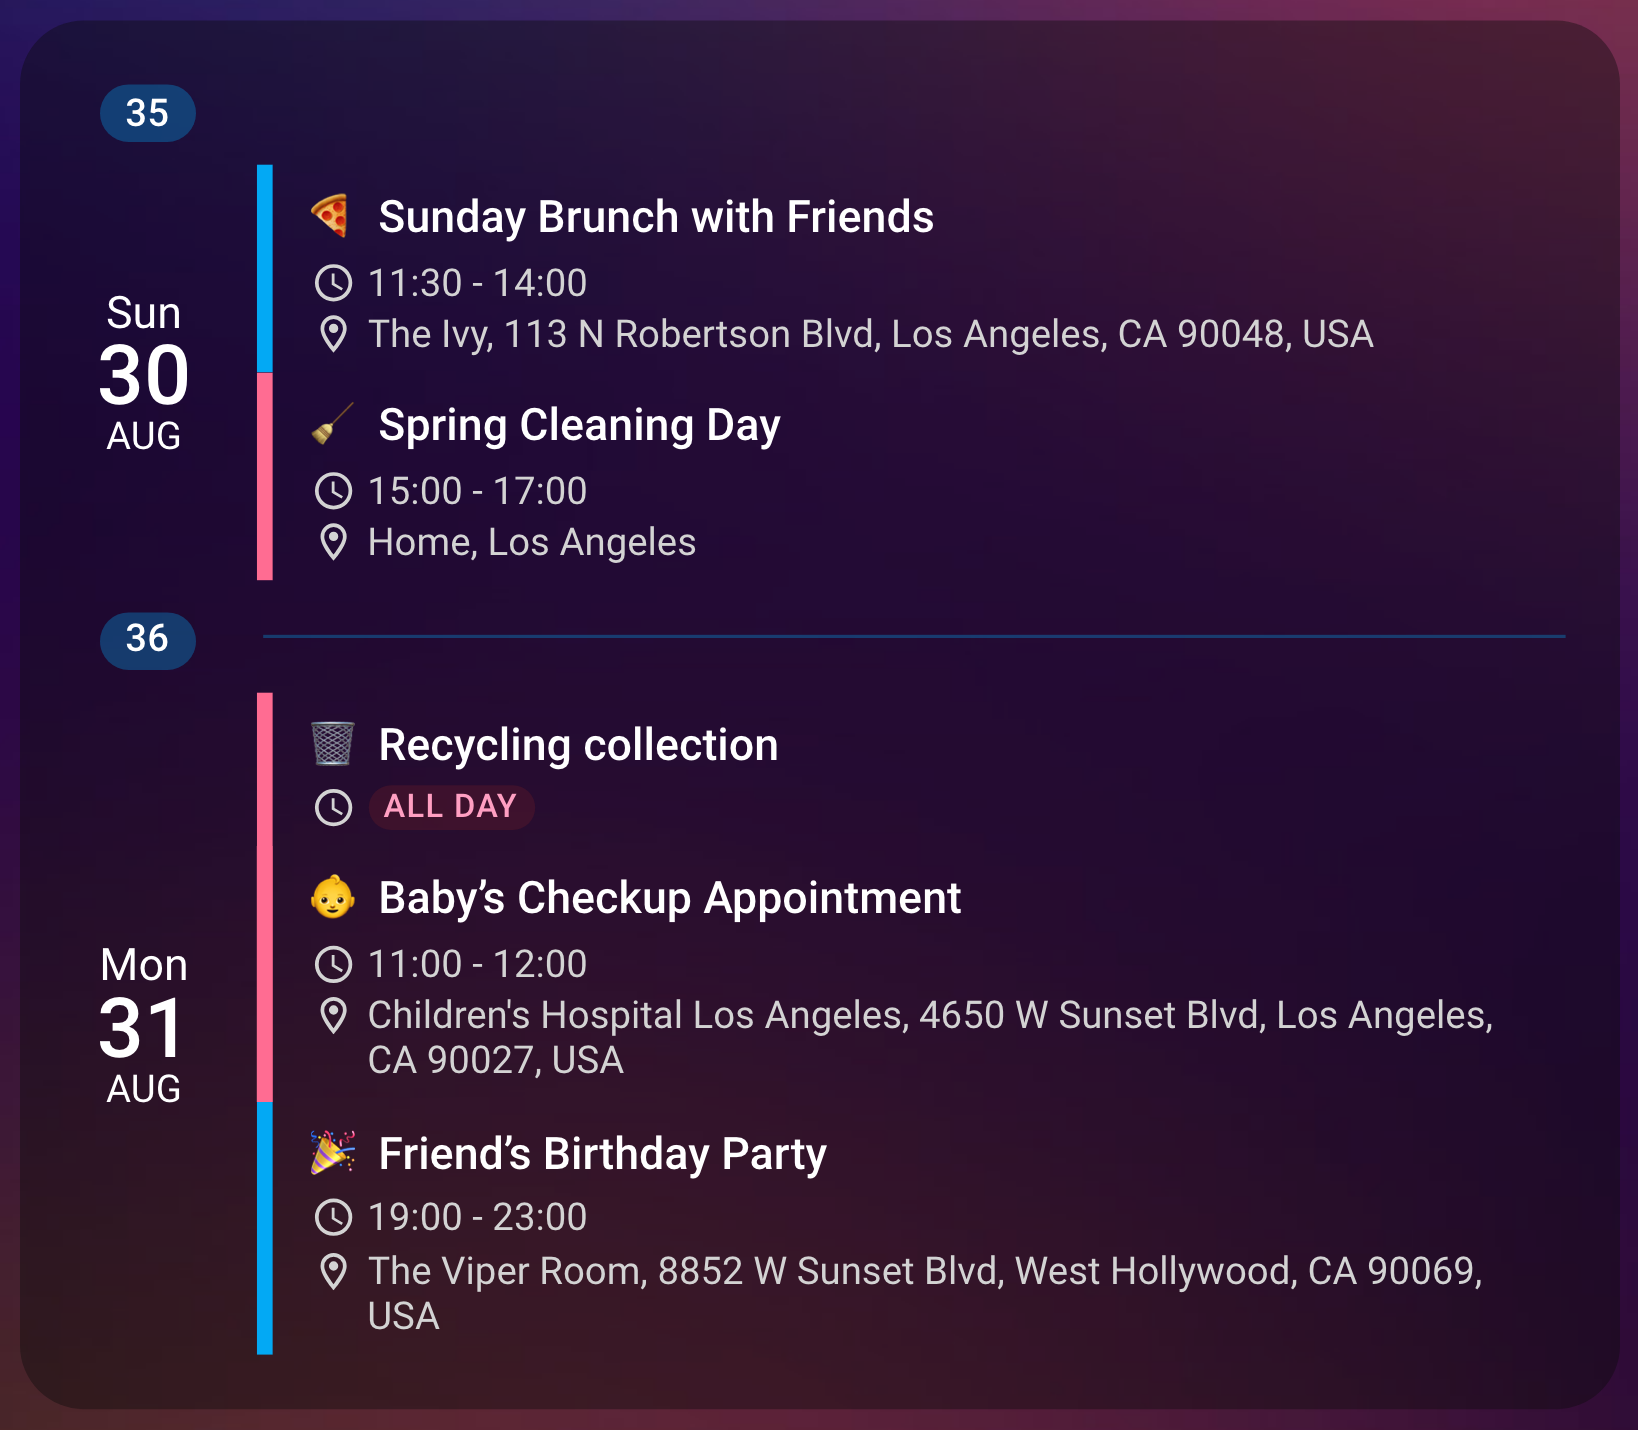
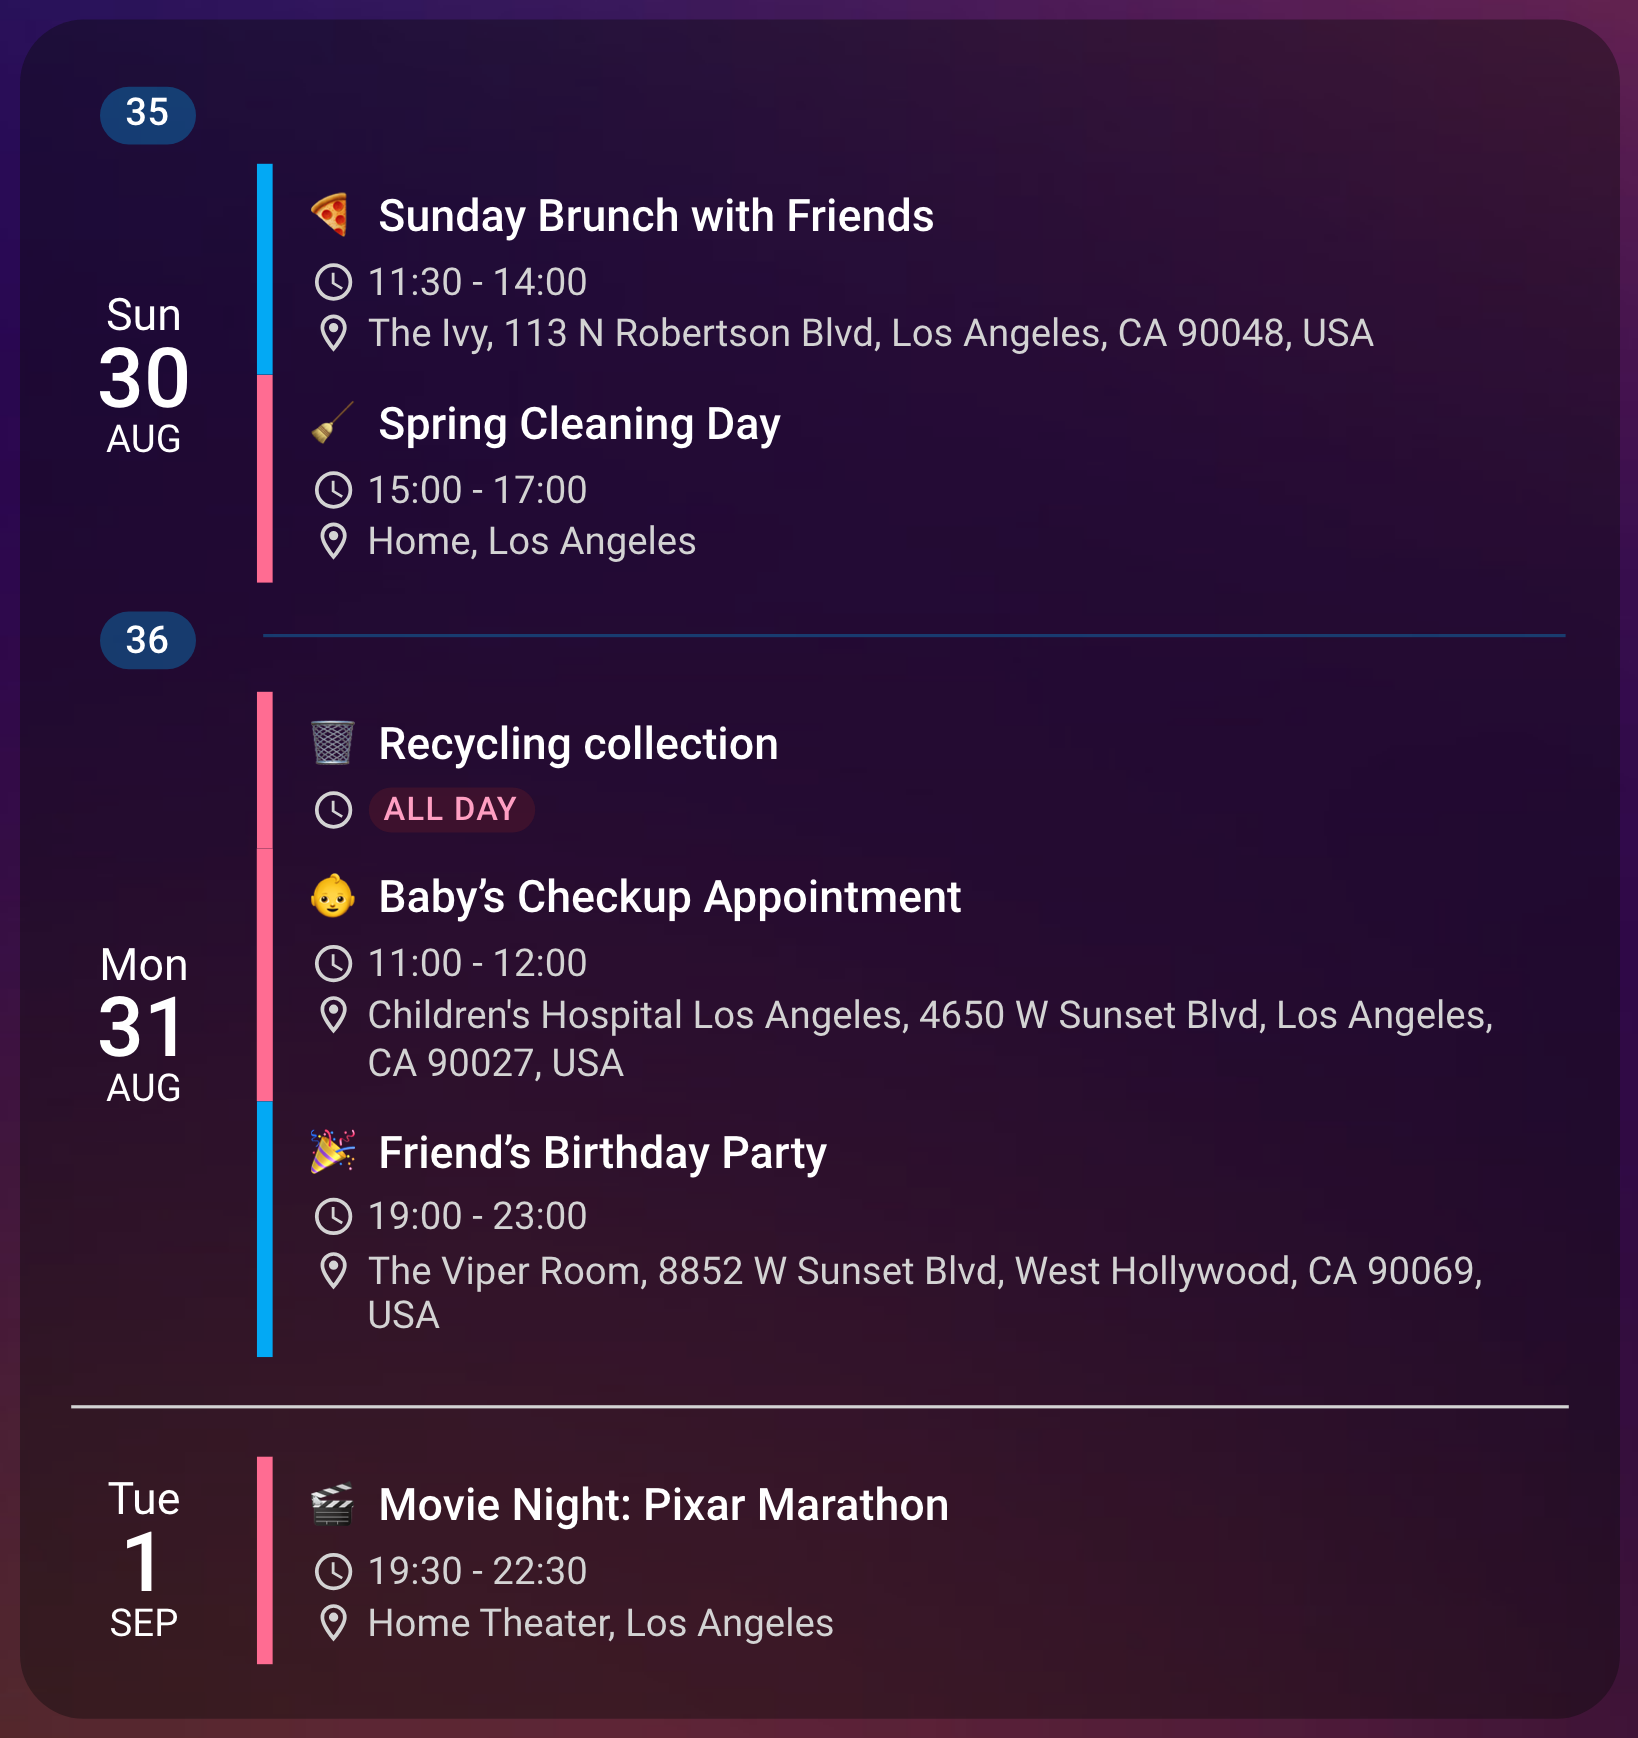
docs(examples): give the week-numbers card room for the day the badge displaced
Adding the recycling fixture to Mondays put a sixth event inside a window capped
at five, and the one that fell off the end was Tue 1 Sep — the only month
boundary in it. So the example lost the month separator, which is precisely what
`month_separator_width: 1.5px` is there to show. The badge it gained is a smaller
thing than the separator it cost.

`compact_events_to_show` raised to 6. That is the smallest change that restores
the boundary while keeping the badge, and the option is incidental to what this
example teaches rather than part of it.

Checked every other capture window against the recurrence rather than assuming
this was the only one: recycling recurs Mondays from 2026-08-31, and of the eight
windows only week-numbers (2026-08-30 +5d) contains such a Monday. The badge hero
contains one deliberately. Nothing else needed recapturing.

Worth keeping in mind for the next fixture: a capped window converts an added
event into a *removed* day somewhere further down the card, and the removal is
silent — the card looks correct, just shorter. The height dropping from 1581px to
1430px was the only outward sign.

Copilot-Session: 4708413d-b45d-4485-8071-074b6bb1be52

diff --git a/docs/reference/examples.md b/docs/reference/examples.md
@@ -83,7 +83,7 @@ entities:
   - entity: calendar.family
     accent_color: '#ff6c92'
 days_to_show: 5
-compact_events_to_show: 5
+compact_events_to_show: 6
 vertical_line_width: 5px
 event_spacing: 5px
 show_week_numbers: iso
